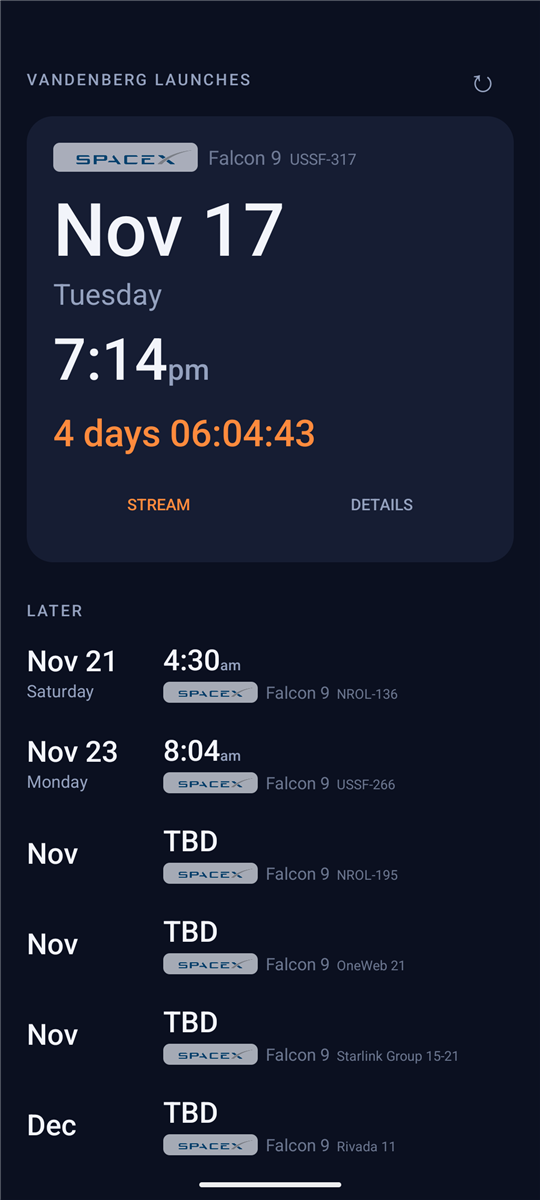
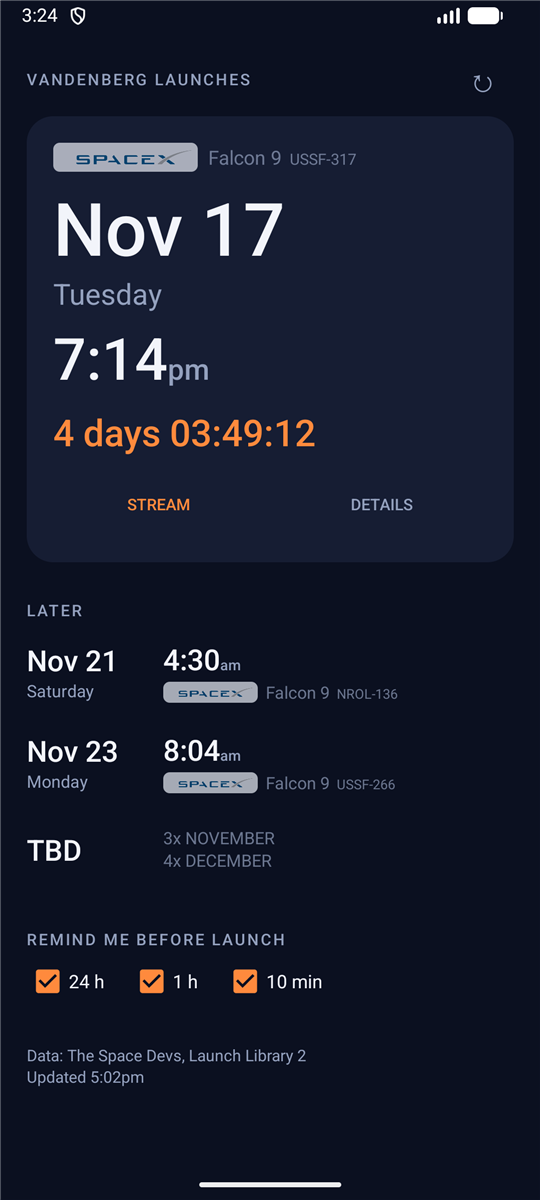
Collapse undated launches into one TBD row
The Later list showed a full row for every launch without a date. Those
now share a single row: TBD in the date column and a count per month
beside it ("3x NOVEMBER", "4x DECEMBER").

Screenshots updated to match.

diff --git a/app/src/test/kotlin/app/vandilaunch/UndatedTest.kt b/app/src/test/kotlin/app/vandilaunch/UndatedTest.kt
@@ -1,0 +1,45 @@
+package app.vandilaunch
+
+import org.junit.Assert.assertEquals
+import org.junit.Assert.assertTrue
+import org.junit.Test
+import java.time.Instant
+
+class UndatedTest {
+    private fun launch(net: String, precision: Int, id: String = net) = Launch(
+        id = id, name = "Falcon 9 | X", provider = "SpaceX", rocket = "Falcon 9",
+        netMillis = Instant.parse(net).toEpochMilli(), precision = precision, statusId = 2,
+        status = "TBD", pad = "p", slug = "s",
+    )
+
+    @Test
+    fun countsUndatedLaunchesPerMonthInOrder() {
+        val list = listOf(
+            launch("2026-12-31T00:00:00Z", 7, "d1"),
+            launch("2026-11-30T00:00:00Z", 7, "n1"),
+            launch("2026-11-30T00:00:00Z", 7, "n2"),
+            launch("2026-12-31T00:00:00Z", 11, "d2"),
+            launch("2026-11-30T00:00:00Z", 7, "n3"),
+            launch("2026-12-31T00:00:00Z", 11, "d3"),
+            launch("2026-12-31T00:00:00Z", 11, "d4"),
+        )
+        assertEquals(listOf("3x NOVEMBER", "4x DECEMBER"), Times.undatedByMonth(list))
+    }
+
+    @Test
+    fun datedLaunchesAreNotCounted() {
+        val list = listOf(
+            launch("2026-11-21T12:30:00Z", 1),
+            launch("2026-11-25T00:00:00Z", 3),
+            launch("2026-11-30T00:00:00Z", 7),
+        )
+        assertEquals(listOf("1x NOVEMBER"), Times.undatedByMonth(list))
+        assertTrue(Times.undatedByMonth(list.take(2)).isEmpty())
+    }
+
+    @Test
+    fun sameMonthInDifferentYearsStaysSeparate() {
+        val list = listOf(launch("2027-01-31T00:00:00Z", 7), launch("2026-01-31T00:00:00Z", 7))
+        assertEquals(listOf("1x JANUARY", "1x JANUARY"), Times.undatedByMonth(list))
+    }
+}

diff --git a/app/src/main/kotlin/app/vandilaunch/Times.kt b/app/src/main/kotlin/app/vandilaunch/Times.kt
@@ -2,10 +2,12 @@ package app.vandilaunch
 
 import java.time.Instant
 import java.time.LocalDate
+import java.time.YearMonth
 import java.time.ZoneId
 import java.time.ZoneOffset
 import java.time.ZonedDateTime
 import java.time.format.DateTimeFormatter
+import java.time.format.TextStyle
 import java.time.temporal.ChronoUnit
 import java.util.Locale
 
@@ -54,6 +56,17 @@ object Times {
      */
     private fun at(l: Launch, zone: ZoneId): ZonedDateTime =
         Instant.ofEpochMilli(l.netMillis).atZone(if (l.timeKnown) zone else ZoneOffset.UTC)
+
+    /**
+     * Launches with no date yet, counted per month in time order: "3x NOVEMBER", "4x DECEMBER".
+     */
+    fun undatedByMonth(list: List<Launch>): List<String> =
+        list.filter { !it.dateKnown }
+            .sortedBy { it.netMillis }
+            .groupBy { YearMonth.from(Instant.ofEpochMilli(it.netMillis).atZone(ZoneOffset.UTC)) }
+            .map { (month, launches) ->
+                "${launches.size}x ${month.month.getDisplayName(TextStyle.FULL, Locale.US).uppercase(Locale.US)}"
+            }
 
     /** "Dec 2", or just "Dec" when only the month is known. */
     fun monthDay(l: Launch, zone: ZoneId): String {

diff --git a/app/src/main/kotlin/app/vandilaunch/MainActivity.kt b/app/src/main/kotlin/app/vandilaunch/MainActivity.kt
@@ -178,7 +178,14 @@ class MainActivity : Activity() {
         later.removeAllViews()
         val rest = list.drop(1)
         findViewById<View>(R.id.later_label).visibility = if (rest.isEmpty()) View.GONE else View.VISIBLE
-        for (l in rest) later.addView(row(l, zone))
+        for (l in rest) if (l.dateKnown) later.addView(row(l, zone))
+        // Launches with no date yet collapse into one row of per-month counts.
+        val undated = Times.undatedByMonth(rest)
+        if (undated.isNotEmpty()) {
+            val tbd = layoutInflater.inflate(R.layout.row_tbd, later, false)
+            tbd.findViewById<TextView>(R.id.tbd_months).text = undated.joinToString("\n")
+            later.addView(tbd)
+        }
 
         findViewById<TextView>(R.id.footer).text = buildString {
             append(getString(R.string.credit))
